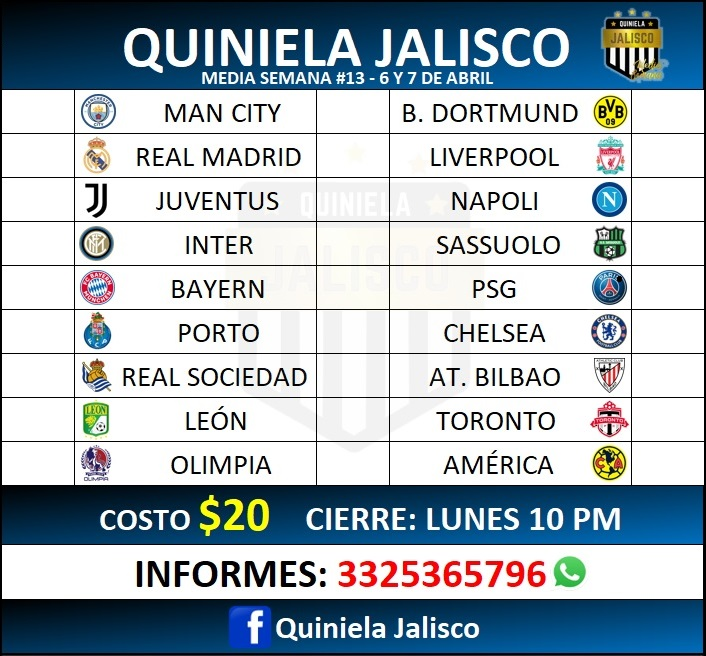
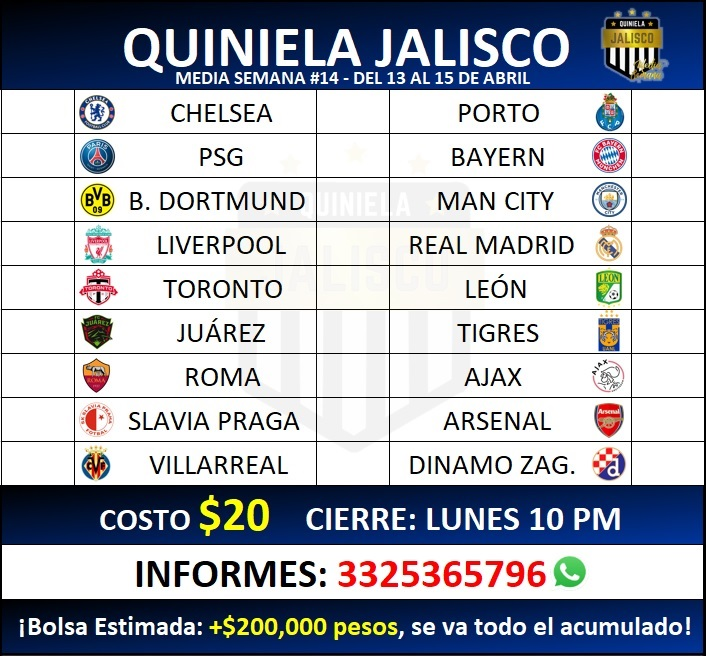
Media Semana #14

diff --git a/MediaSemana/stylesm.css b/MediaSemana/stylesm.css
@@ -89,8 +89,8 @@ h1{
     margin-top: 8%;
     border: solid 1px black;
     border-radius: 0 0 14px 14px;
-    background: -webkit-linear-gradient(0.04turn, rgb(0,0,0)  ,rgb(0,103,178) 80%);
-    background: linear-gradient(0.04turn, rgb(0,0,0)  ,rgb(0,103,178) 80%);
+    background: -webkit-linear-gradient(0.04turn, rgb(0,0,0)  ,rgb(1,51,148) 80%);
+    background: linear-gradient(0.04turn, rgb(0,0,0)  ,rgb(1,51,148) 80%);
     font-size: x-large;
 }
 

diff --git a/media.html b/media.html
@@ -17,6 +17,7 @@
 <body>
     <br>
     <br>
+<p style='color:white;text-align:center'>Bolsa estimada: <span style="color:yellow">+$200,000 pesos</span></p>
     <div class="quiniela" id="quiniela">
         <div class="aux"><h3 style="padding: 5px 7px" onclick="clean()"><ion-icon name="close-outline"></ion-icon></h3></div>
         <div class="partido">
